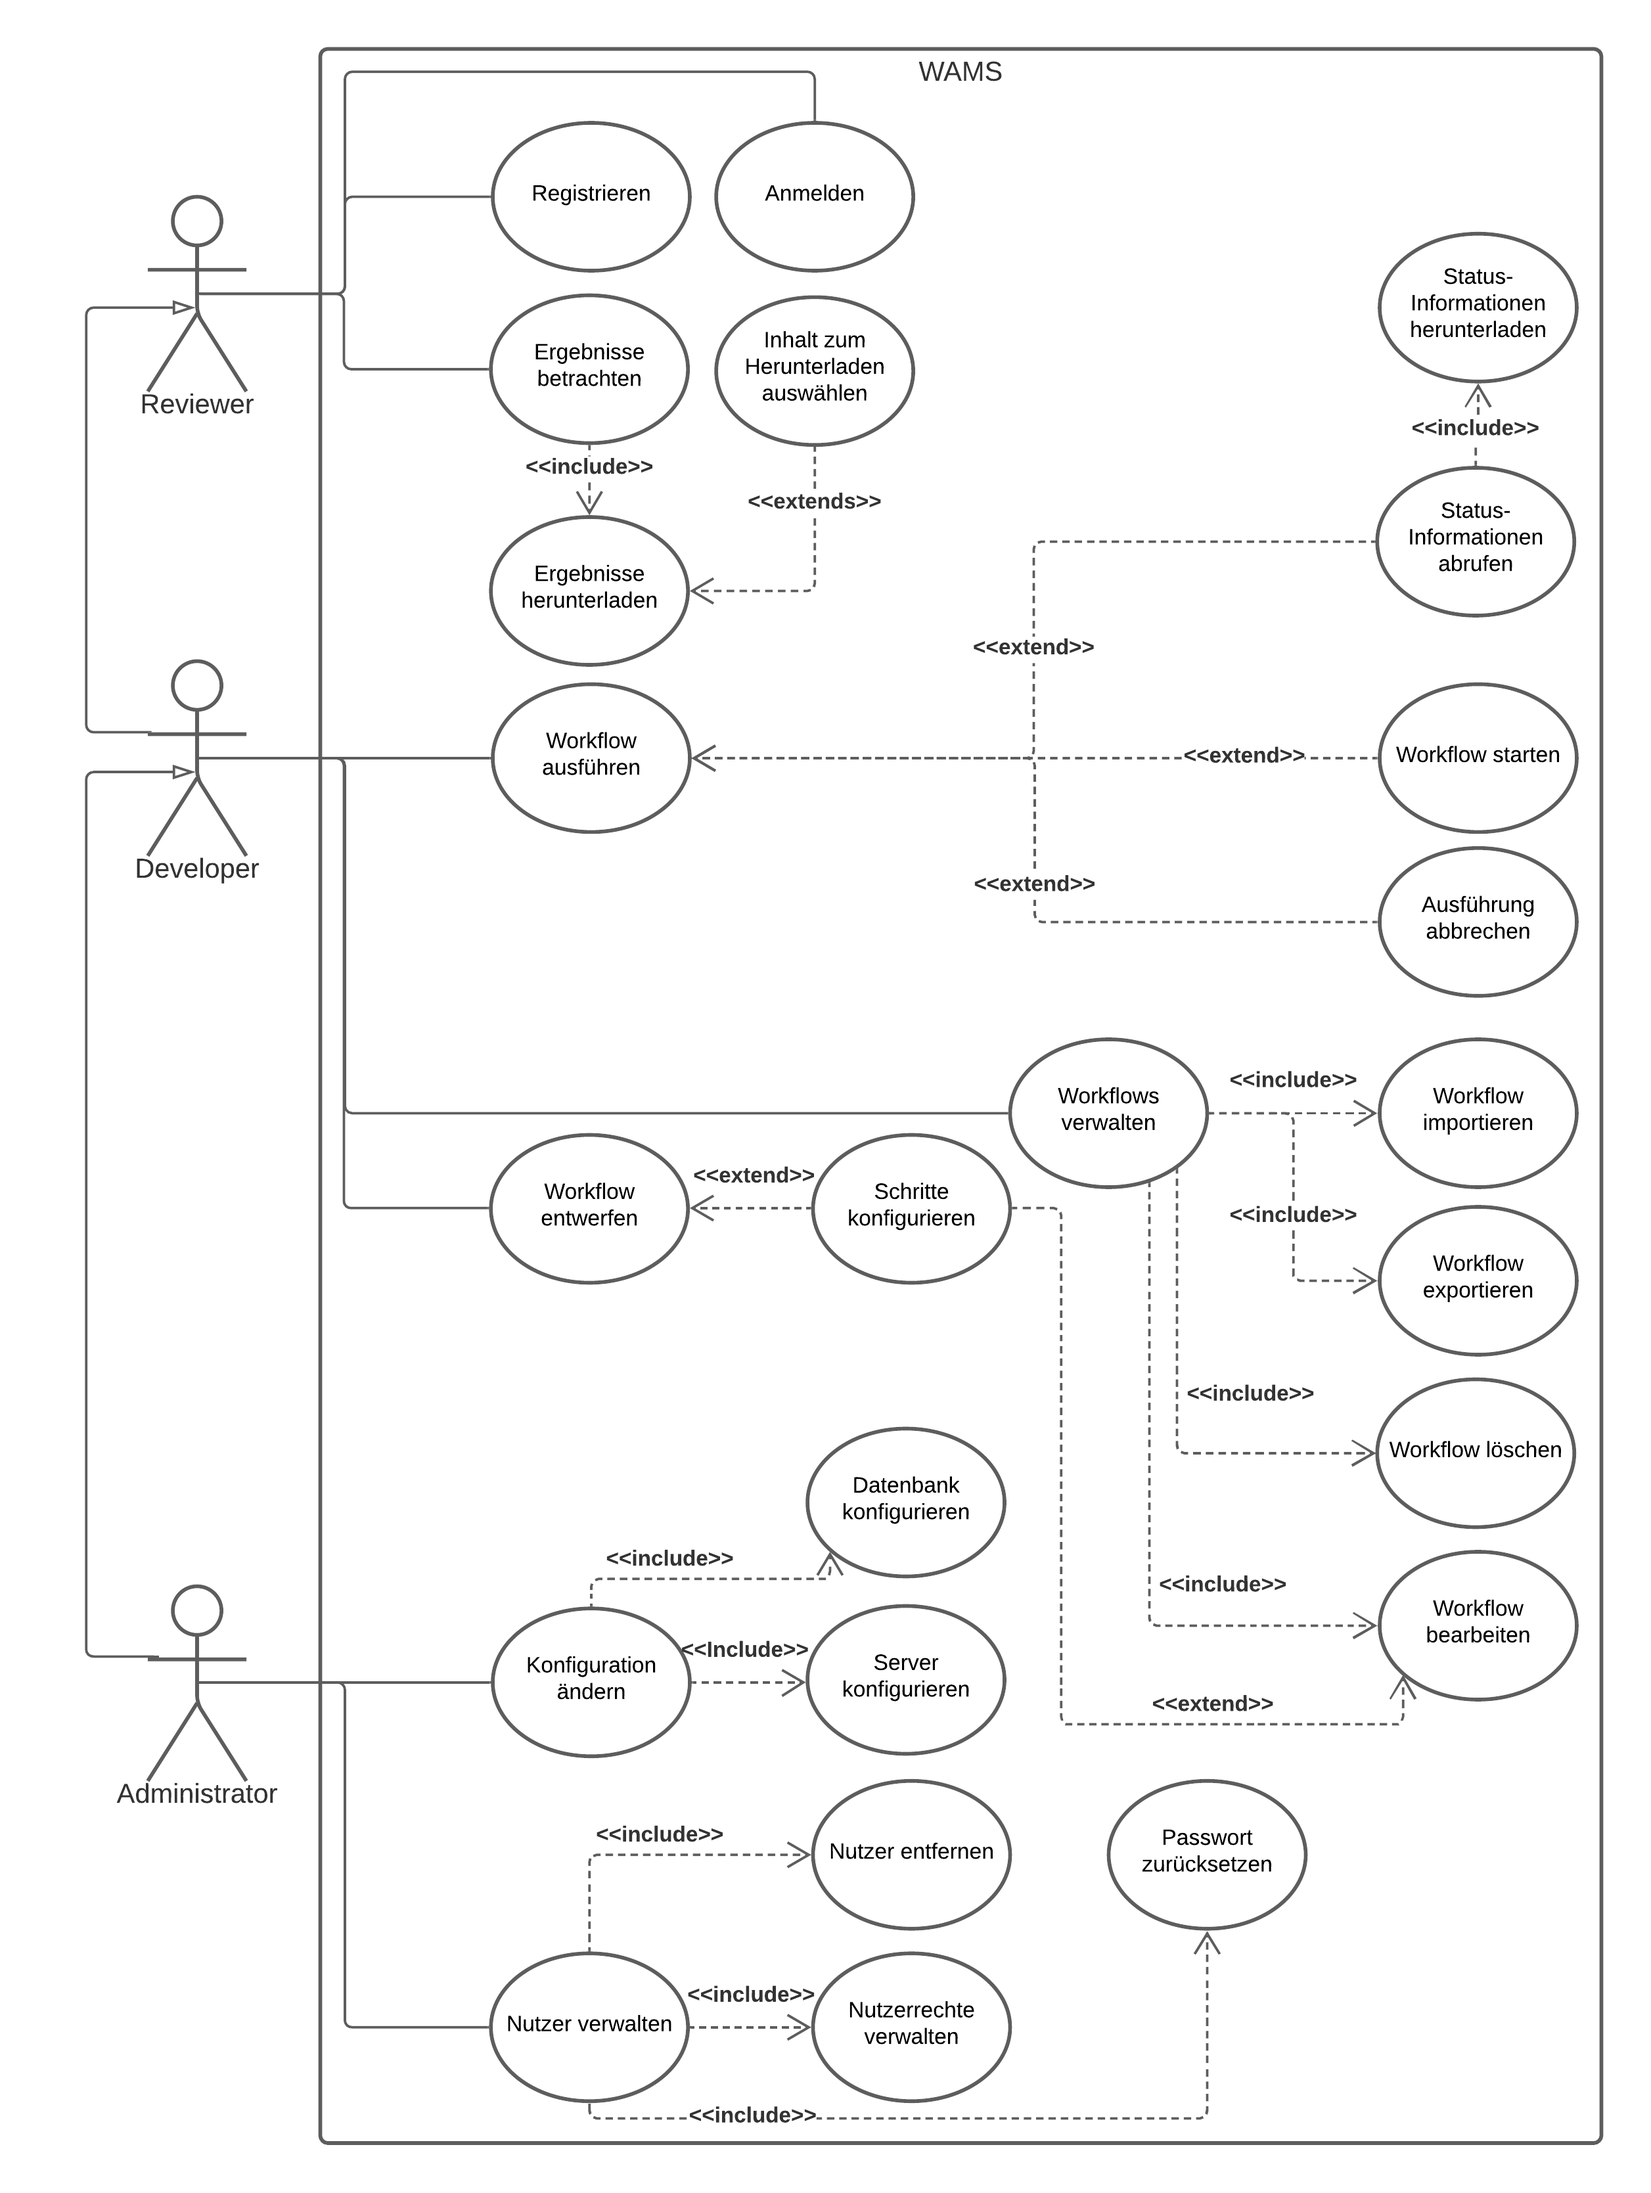
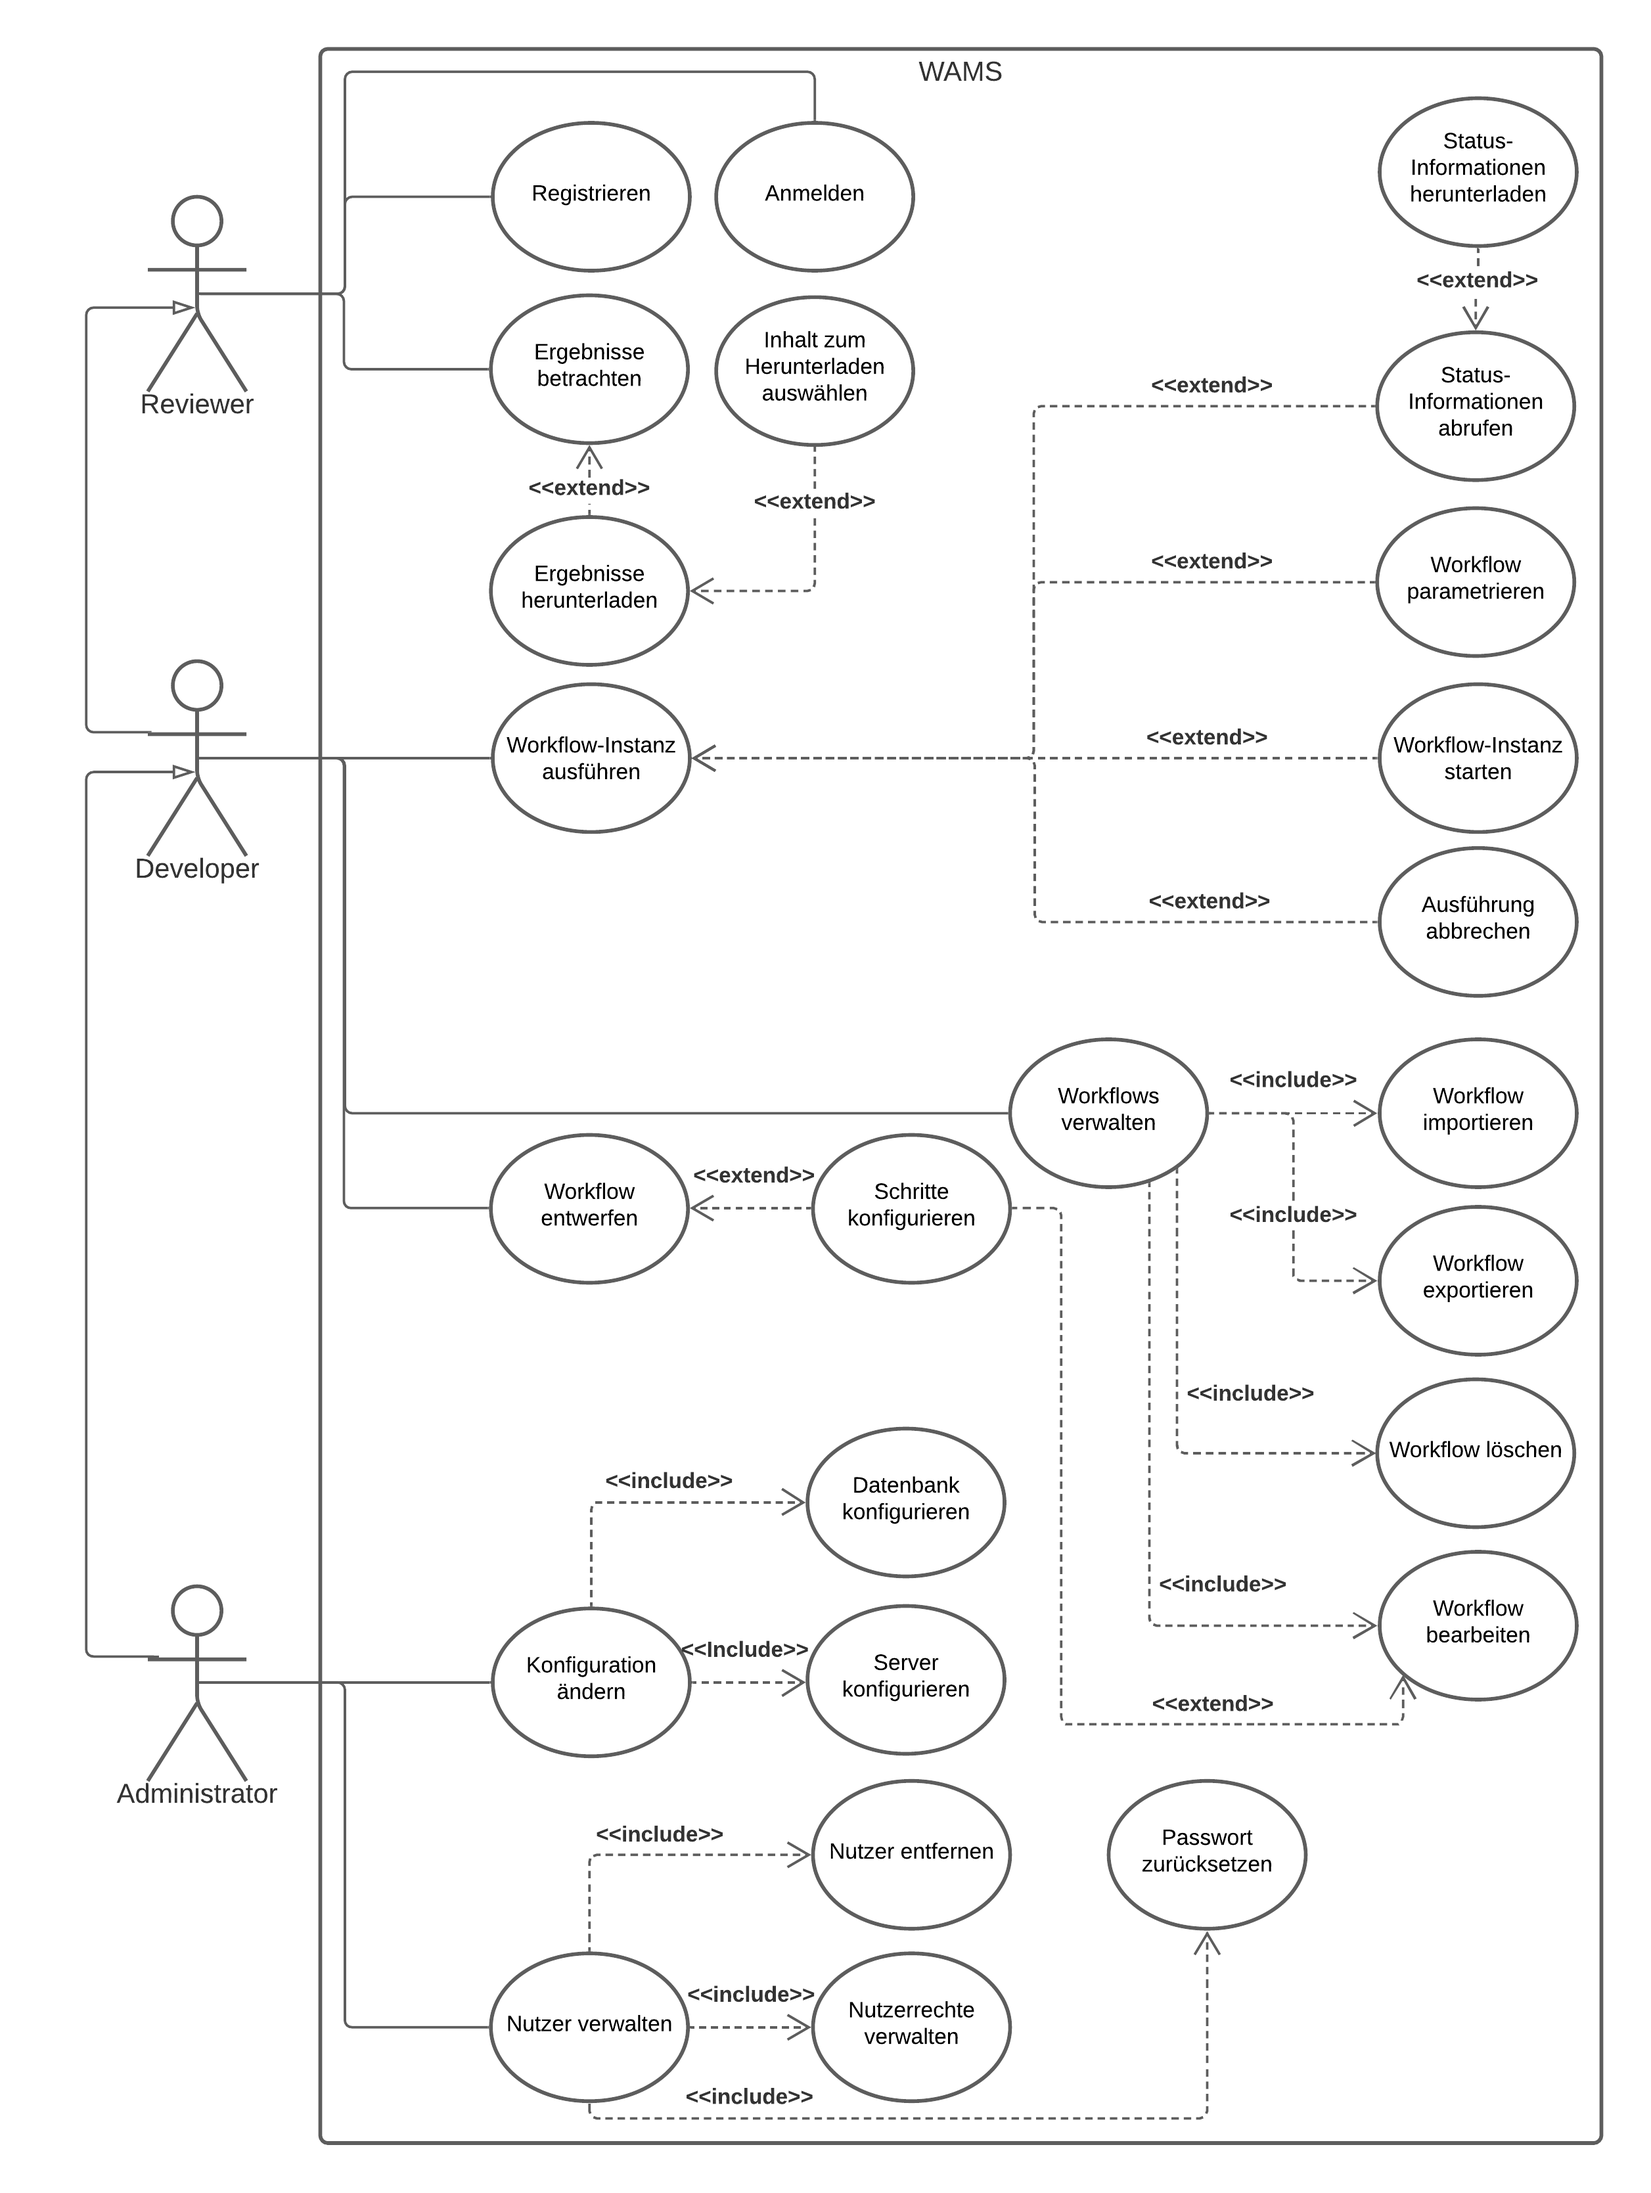
2021.12.07

diff --git a/Kapitel/Produktfunktionen.tex b/Kapitel/Produktfunktionen.tex
@@ -33,8 +33,8 @@
 \begin{enumerate}
     \setlength\itemsep{-1em}
     \setcounter{enumi}{\value{FAs}}
-    \item Hochladen von Config-Dateien
-    \item Bearbeiten von Config-Dateien als Rohtext
+    \item Hochladen von Konfigurationsdateien
+    \item Bearbeiten von Konfigurationsdateien als Rohtext
     %\item Bearbeiten von Config-Dateine als \gls{Key-Value-Pair}-Liste
     \setcounter{FAs}{\value{enumi}}
 \end{enumerate}
@@ -60,7 +60,7 @@
     \item Hinzufügen von \glspl{Workflow Schablone}-schritten
     \item Entfernen von \glspl{Workflow Schablone}-schritten
     %\item Auswählen von Workflowschritten
-    %\item Konfiguration der Schritte durch Dialog (Ist das hier das gleiche wie Konfiguration der Config-Dateien?)
+    %\item Konfiguration der Schritte durch Dialog (Ist das hier das gleiche wie Konfiguration der Konfigurationsdateien?)
     \item Hochladen von \gls{Python}code% und Festlegung der Parameter für Nutzer 
     %\item Festlegung der Parameter für Nutzer
     \setcounter{FAs}{\value{enumi}}
@@ -79,7 +79,7 @@
     \item Speichern von Metadaten eines \glspl{Workflow}
     \item Informationen von laufenden Workflows einsehen
     \item Herunterladen ausgewählter Informationen von laufenden Workflows
-    %\item Bearbeiten von Config-Dateien
+    %\item Bearbeiten von Konfigurationsdateien
     \setcounter{FAs}{\value{enumi}}
 \end{enumerate}
 
@@ -122,7 +122,7 @@
     \setlength\itemsep{-1em}
     \setcounter{enumi}{\value{FAs}}
     \item Login über Webseite
-    \item neue Benutzer registrieren
+    \item Neue Benutzer registrieren
     \item Unterscheidung von Nutzern in \gls{Reviewer}, \gls{Nutzer} und \gls{Admin}
     \item Passwort zurücksetzen
     \item Änderung der Nutzerrechte durch \glspl{Admin}

diff --git a/Kapitel/Testfallszenarien.tex b/Kapitel/Testfallszenarien.tex
@@ -42,7 +42,7 @@ Folgende Testfälle testen die Musskriterien:
         \\ \textbf{Reaktion:} Der \gls{Workflow Schablone} wird zur Liste der Workflows hinzugefügt
     \item Konfiguration einer noch nicht gestarteten \gls{Workflow} bearbeiten
         \\ \textbf{Stand:} Der \gls{Nutzer} ist auf der Workflowbearbeitungsseite
-        \\ \textbf{Aktion:} Der \gls{Nutzer} wählt eine Config-Datei aus und bearbeitet einen der Parameter im Texteditor
+        \\ \textbf{Aktion:} Der \gls{Nutzer} wählt eine Konfigurationsdatei aus und bearbeitet einen der Parameter im Texteditor
         \\ \textbf{Reaktion:} Der neue Parameter für die ausgewählte \gls{Workflow} wird übernommen
     \item Daten von abgeschlossenen \glspl{Workflow} herunterladen
         \\ \textbf{Stand:} geöffnete Downloadseite
@@ -119,7 +119,7 @@ Folgende Testfälle testen die Musskriterien:
 \subsection*{\gls{Workflow} erstellen und ausführen}
 \begin{itemize}
     \item Ein \Gls{Nutzer} meldet sich an und bekommt die Startseite angezeigt
-    \item Der \Gls{Nutzer} navigiert zur Workflowübersicht und bekommt alle \glspl{Workflow Schablone}
+    \item Der \Gls{Nutzer} navigiert zur Workflowübersicht und bekommt alle \glspl{Workflow Schablone} angezeigt
     \item Der \gls{Nutzer} wählt einen \gls{Workflow Schablone} aus
     \item Der \gls{Nutzer} erstellt aus dem \gls{Workflow Schablone} eine neue \gls{Workflow} 
     \item Der \gls{Nutzer} befüllt die Parameter der \gls{Workflow}

diff --git a/Kapitel/Produktdaten.tex b/Kapitel/Produktdaten.tex
@@ -8,12 +8,12 @@ Es sollen (mindestens) folgende Daten persistent gespeichert werden.
         \setlength\itemsep{-1em}
         \item E-Mail
         \item Passwort
-        \item Art des Benutzerkonto
+        \item Art des Benutzerkontos
         \begin{itemize}
             \setlength\itemsep{-1em}
             \item \gls{Reviewer} (nur Leserechte, kann auf Ergebnisse zugreifen)
-            \item \gls{Nutzer} (erstellen und ausführen von Workflows)
-            \item \gls{Admin} (ändern von Limits, Anbindungen, Datenbank, etc.)
+            \item \gls{Nutzer} (Erstellen und Ausführen von Workflows)
+            \item \gls{Admin} (Ändern von Limits, Anbindungen, Datenbank, etc.)
         \end{itemize}
     \end{itemize}
     
@@ -70,7 +70,7 @@ Es sollen (mindestens) folgende Daten persistent gespeichert werden.
         \begin{itemize}
             \setlength\itemsep{-1em}
             \item Ersteller der \gls{Workflow}
-            \item Nutzer der die Ausführung der \gls{Workflow} gestartet hat
+            \item Nutzer, der die Ausführung der \gls{Workflow} gestartet hat
             \item Laufzeit
             \item Startzeit
             \item Beendigungszeit

diff --git a/Kapitel/Entwicklungsumgebung.tex b/Kapitel/Entwicklungsumgebung.tex
@@ -1,7 +1,7 @@
 \chapter{Entwicklungsumgebung}
 Das fertige Programm basiert auf \gls{Apache Airflow} und wird um die gewünschten Funktionalitäten erweitert.
 \section{Programmiersprache}
-Das Produkt basiert auf den folgenden Programmiersprachen:
+Das Produkt wird mit folgenden Programmiersprachen entwickelt:
 \begin{itemize}
     \setlength\itemsep{-1em}
     \item Python mit Flask
@@ -16,7 +16,8 @@ Wo benötigt verwenden wir zudem:
 \end{itemize}
 \newpage
 \section{Software}
-Zur Entwicklung nutzen wir folgende Software:
+Folgende Software unterstützt die Entwicklung:
+%Zur Entwicklung nutzen wir folgende Software:
 \begin{itemize}
     \setlength\itemsep{-1em}
     \item Apache Airflow zum Ausführen der \glspl{Workflow}
@@ -28,4 +29,5 @@ Zur Entwicklung nutzen wir folgende Software:
 
 
 \section{Hardware}
-Zur Entwicklung wird außer einer Internetverbindung keine zusätzliche Hardware benötigt.
+Die Entwicklung erfolgt auf Standard-PCs. An diese werden außer einer Internetverbindung keine speziellen Hardwareanforderungen gestellt.
+%Zur Entwicklung wird außer einer Internetverbindung keine zusätzliche Hardware benötigt.

diff --git a/Kapitel/Systemmodell.tex b/Kapitel/Systemmodell.tex
@@ -1,5 +1,5 @@
 \chapter{Systemmodell}
-Die Rechteverwaltung basiert auf \glspl{Gruppe}. Jede Gruppe hat verschiedene Berechtigungen. Im Folgenden wird zwischen \gls{Reviewer}n, \glspl{Nutzer}n und \glspl{Admin} unterschieden.
+Die Nutzer sind in drei verschiedene \glspl{Gruppe} eingeteilt. Jede Gruppe hat unterschiedliche Berechtigungen. Im Folgenden wird zwischen \gls{Reviewer}n, \glspl{Nutzer}n und \glspl{Admin} unterschieden.
 Jede höher liegende Gruppe kann alle Funktionen der darunter liegenden Gruppe nutzen.
 %Es wird bei der Ansicht der Workflows nicht zwischen \gls{Nutzer}n, \gls{Reviewer}n und \glspl{Admin} unterschieden. 
 
@@ -14,6 +14,6 @@ Jede höher liegende Gruppe kann alle Funktionen der darunter liegenden Gruppe n
 \begin{figure}[ht]
     \centering
     \includegraphics[width = \textwidth]{Grafiken/Diagramme/Anwendungsfalldiagramm.png}
-    \caption{Anwendungsfälle und Verteilung der Rechte und nutzbarer Funktionen}
+    \caption{Anwendungsfalldiagramm mit Unterscheidung der \glspl{Gruppe} }
     \label{fig:Anwfalldiag}
 \end{figure}

diff --git a/Kapitel/Benutzeroberfläche.tex b/Kapitel/Benutzeroberfläche.tex
@@ -46,13 +46,13 @@
     \begin{subfigure}{.75\textwidth}
         \centering
         \includegraphics[width = \textwidth]{Grafiken/Gui Mockups/workflowGui-ConfigEdit.drawio.png}
-    \caption{Bearbeiten von Config-Dateien}
+    \caption{Bearbeiten von Konfigurationsdateien}
     \label{fig: sfigKonfig}
     \end{subfigure}
    \begin{subfigure}{.75\textwidth}
     \centering
     \includegraphics[width = \textwidth]{Grafiken/Gui Mockups/workflowGui-ConfigEditRohdata.drawio.png}
-    \caption{Bearbeiten von Roh-Config-Dateien}
+    \caption{Bearbeiten von Roh-Konfigurationsdateien}
     \label{fig:sfigRawConfig}
    \end{subfigure}
    \begin{subfigure}{.75\textwidth}
@@ -61,7 +61,7 @@
         \caption{Designen von Workflows mit Grafischer Oberfläche}
         \label{fig:sfigGraficDesign}
    \end{subfigure}
-   \caption{Bearbeiten der Config-Dateien und Workflows}
+   \caption{Bearbeiten der Konfigurationsdateien und Workflows}
    \label{fig:Abb 4}
 \end{figure}
     

diff --git a/Kapitel/Zielbestimmung.tex b/Kapitel/Zielbestimmung.tex
@@ -39,7 +39,7 @@ Folgende Funktionen wären wünschenswert:
     \item Graphische Erstellung von \glspl{Workflow Schablone}
     \item Graphisches Bearbeiten von \glspl{Workflow Schablone}
     \item Schnittstelle zu \gls{ABAQUS}
-    \item Darstellung und Bearbeitung der Config-Dateien über \gls{Key-Value-Pair}-Liste
+    \item Darstellung und Bearbeitung der Konfigurationsdateien über \gls{Key-Value-Pair}-Liste
 \end{enumerate}
 
 \section{Abgrenzungskriterien}
@@ -48,7 +48,7 @@ Folgende Funktionen sind kein Ziel des Projektes:
 \begin{enumerate}
     \setlength\itemsep{-1em}
     \item Einsatz auf mobilen Endgeräten
-    \item Vollständiges Erstellen von Config-Dateien
+    \item Vollständiges Erstellen von Konfigurationsdateien
     \item Zugriff von Personen außerhalb des Universitätsnetzwerkes 
 \end{enumerate}
 \renewcommand{\labelenumi}{\arabic{enumi}}

diff --git a/Kapitel/Produktleistungen.tex b/Kapitel/Produktleistungen.tex
@@ -1,5 +1,6 @@
 \chapter{Produktleistungen}
-Die folgenden Daten gelten unter Annahme der Mindesthardwarevoraussetzungen. %Die gegebenen Zahlen skalieren mit der eingesetzten Hardware.
+Bei Einhalten der minimalen Hardwareanforderungen gelten folgende Daten:
+%Die folgenden Daten gelten unter Annahme der Mindesthardwarevoraussetzungen. %Die gegebenen Zahlen skalieren mit der eingesetzten Hardware.
 
 \renewcommand{\labelenumi}{/PL\arabic{enumi}0/}
 \begin{enumerate}

diff --git a/glossary.tex b/glossary.tex
@@ -7,7 +7,7 @@ plural = Reviewer
 
 \newglossaryentry{Apache Airflow}{
 name = Apache Airflow,
-description ={open-source Workflow Management Plattform für Workflows}
+description ={Open-source Workflow Management Plattform für Workflows}
 }
 
 \newglossaryentry{Nutzer}{
